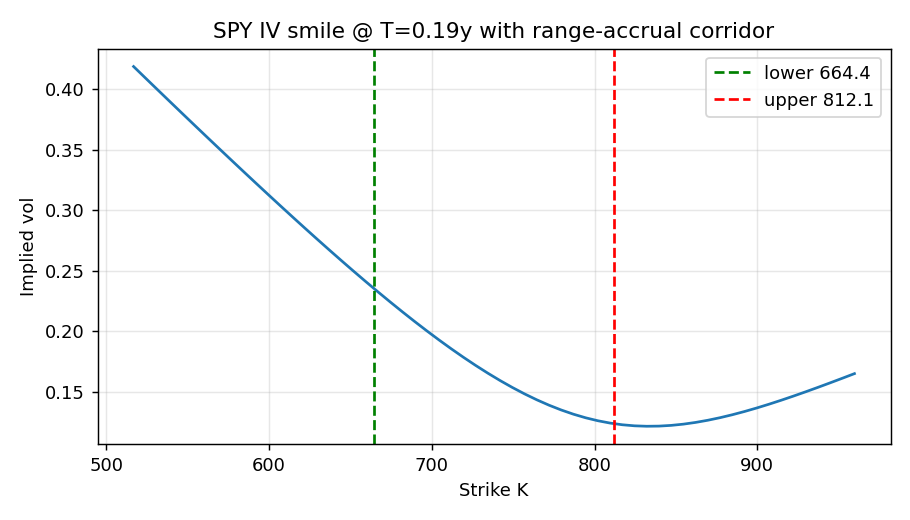
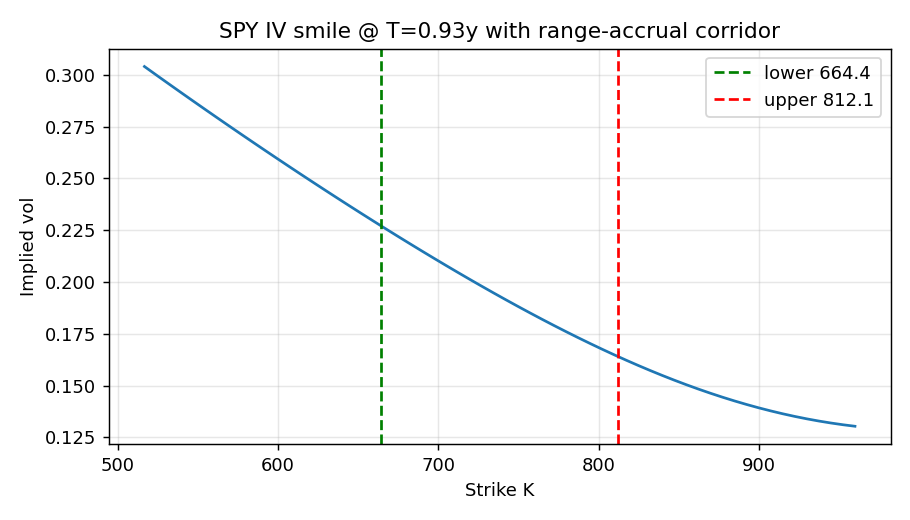
fix(range_accrual): clamp local vol to surface max_expiry with warning
_precompute_lv_grid and _safe_local_vol clamped t to bridge.min_expiry
(lower bound) but had no upper clamp.  When a caller priced a note with
maturity T beyond the calibrated surface's max_expiry (e.g. T=1y vs a
SPY surface built from max_expiries=12 weeklies/monthlies ending at
~0.18y), every MC step beyond max_expiry raised in dupire_at, was
caught by the fallback, and bottomed out at the 1-week ATM IV.  The MC
silently ran a flat short-vol SDE for ~80% of the path while printing a
tight confidence interval -- false precision around a biased mean.

Add a symmetric upper clamp with an explicit RuntimeWarning naming the
off-surface time so silent degradation is impossible.  Bump the SPY
examples to max_expiries=24 so T=1y notes land on-surface (SPY monthlies
extend ~2y out).  Improve the variance-swap example to sample evenly-
spread expiries (short+long), not just the 5 nearest.

Add a regression test asserting the warning fires when t exceeds
max_expiry.  Existing tests stay warning-free (their surfaces cover the
priced maturities).

diff --git a/src/voldrv/structured/range_accrual.py b/src/voldrv/structured/range_accrual.py
@@ -9,13 +9,14 @@ SDE: dS = (r q) S dt + σ_loc(S, t) S dW   (Euler-Maruyama)
 Performance note
 ----------------
 The local-vol surface is pre-computed ONCE on a 2D (K, T) grid of
-``_N_GRID`` strikes × ``n_steps`` time slices at the start of the
+``_N_GRID`` strikes x ``n_steps`` time slices at the start of the
 simulation, then per-step local vols are obtained via ``np.interp``.
-This eliminates O(steps × _N_GRID) ``local_vol_at`` calls that were
+This eliminates O(steps x _N_GRID) ``local_vol_at`` calls that were
 previously made inside the loop.
 """
 
 import math
+import warnings
 from dataclasses import dataclass
 
 import numpy as np
@@ -102,6 +103,16 @@ def _safe_local_vol(bridge: SurfaceBridge, S: np.ndarray, t: float,
     # Clamp t to the surface's minimum expiry so we don't
     # request a time slice before the earliest fitted slice.
     t = max(t, bridge.min_expiry)
+    if t > bridge.max_expiry:
+        warnings.warn(
+            f"_safe_local_vol: t={t:.4f} exceeds surface max_expiry="
+            f"{bridge.max_expiry:.4f}; clamping to max_expiry. "
+            f"Local vol beyond the calibrated surface is unreliable -- "
+            f"increase max_expiries in load_calibrated_surface() to cover the maturity.",
+            RuntimeWarning,
+            stacklevel=2,
+        )
+        t = min(t, bridge.max_expiry)
 
     S_min_safe = max(S0 * 0.1, 1e-4)
     S_max_safe = S0 * 10.0
@@ -159,6 +170,16 @@ def _precompute_lv_grid(
 
     for k_idx, t in enumerate(times):
         t_clamped = max(t, bridge.min_expiry)
+        if t > bridge.max_expiry:
+            warnings.warn(
+                f"_precompute_lv_grid: t={t:.4f} exceeds surface max_expiry="
+                f"{bridge.max_expiry:.4f}; clamping to max_expiry. "
+                f"Local vol beyond the calibrated surface is unreliable -- "
+                f"increase max_expiries in load_calibrated_surface() to cover the maturity.",
+                RuntimeWarning,
+                stacklevel=2,
+            )
+            t_clamped = min(t_clamped, bridge.max_expiry)
         # Evaluate local vol at each grid point for this time slice
         row = np.empty(n_strikes, dtype=float)
         for j, K in enumerate(grid_strikes_K):

diff --git a/tests/test_range_accrual.py b/tests/test_range_accrual.py
@@ -371,3 +371,29 @@ class TestPrecomputedLVGrid:
         )
         assert isinstance(result.pv_std, float)
         assert result.pv_std >= 0.0
+
+
+# ---------------------------------------------------------------------------
+# Off-surface local-vol warning tests
+# ---------------------------------------------------------------------------
+class TestOffSurfaceWarning:
+    """When t exceeds bridge.max_expiry, a RuntimeWarning is emitted (no silent degradation)."""
+
+    def test_precompute_warns_when_t_exceeds_max_expiry(self) -> None:
+        """_precompute_lv_grid warns if a requested time slice is above max_expiry."""
+        import warnings
+
+        fs = _flat_fs(T_low=0.5, T_high=2.0)  # max_expiry = 2.0
+        bridge = SurfaceBridge(fs)
+        # Build a 2D grid that forces t > max_expiry:
+        grid_K = np.array([90.0, 100.0, 110.0])
+        times = np.array([1.0, 2.5, 3.0])      # 2.5 and 3.0 exceed max_expiry=2.0
+        from voldrv.structured.range_accrual import _precompute_lv_grid
+
+        with warnings.catch_warnings(record=True) as w:
+            warnings.simplefilter("always")
+            _precompute_lv_grid(bridge, grid_K, times, S0=100.0)
+            runtime_warnings = [x for x in w if issubclass(x.category, RuntimeWarning)]
+            # at least one warning per offending time step (2 of 3 times are off-surface)
+            assert len(runtime_warnings) >= 1
+            assert "exceeds surface max_expiry" in str(runtime_warnings[0].message)

diff --git a/examples/spy_variance_swap.py b/examples/spy_variance_swap.py
@@ -14,7 +14,7 @@ from voldrv.swaps.vol_swap import fair_vol_strike_from_surface
 
 def main() -> None:
     symbol = "SPY"
-    bridge, meta = load_calibrated_surface(symbol, max_expiries=12)
+    bridge, meta = load_calibrated_surface(symbol, max_expiries=24)
     print(f"\n{symbol} calibration summary")
     print(f"  spot        = {meta['spot']:.2f}")
     print(f"  risk-free r = {meta['risk_free']:.4f}")
@@ -25,9 +25,13 @@ def main() -> None:
     print(f"  fitted expiries (yrs): {meta['fitted_expiries']}")
     print(f"  avg RMSE     = {meta['avg_rmse']:.4e}")
 
-    # pick up to 5 expiries within the fitted range, spaced out
-    exps = list(meta["fitted_expiries"])
-    Ts = sorted(set(exps))[:5]
+    # pick up to 5 expiries evenly spread across the fitted range (short + long)
+    exps = sorted(set(meta["fitted_expiries"]))
+    if len(exps) <= 5:
+        Ts = exps
+    else:
+        idx = [int(round(i * (len(exps) - 1) / 4)) for i in range(5)]  # 0%,25%,50%,75%,100%
+        Ts = [exps[i] for i in idx]
     rows = []
     for T in Ts:
         vs = fair_variance_strike(bridge, T=float(T))

diff --git a/examples/spy_range_accrual.py b/examples/spy_range_accrual.py
@@ -15,7 +15,7 @@ from voldrv.structured.range_accrual import price_range_accrual
 
 def main() -> None:
     symbol = "SPY"
-    bridge, meta = load_calibrated_surface(symbol, max_expiries=12)
+    bridge, meta = load_calibrated_surface(symbol, max_expiries=24)
     S0 = meta["spot"]
     T = 1.0  # 1-year note
     lower = S0 * 0.90   # 90%-of-spot corridor floor
